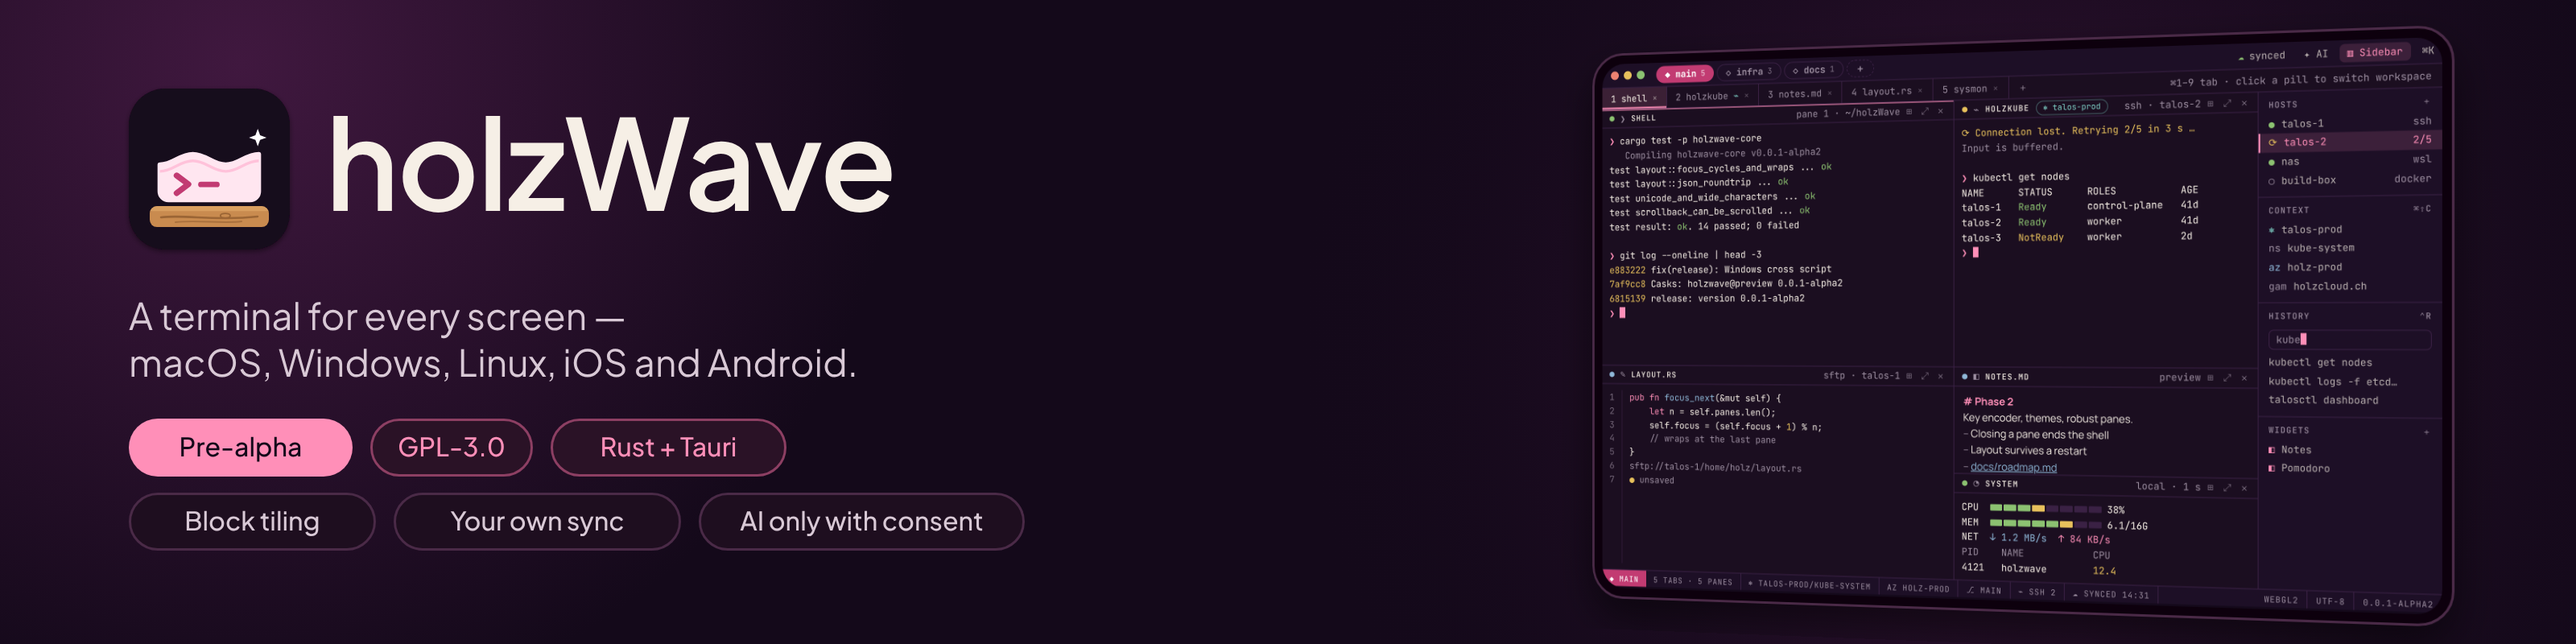
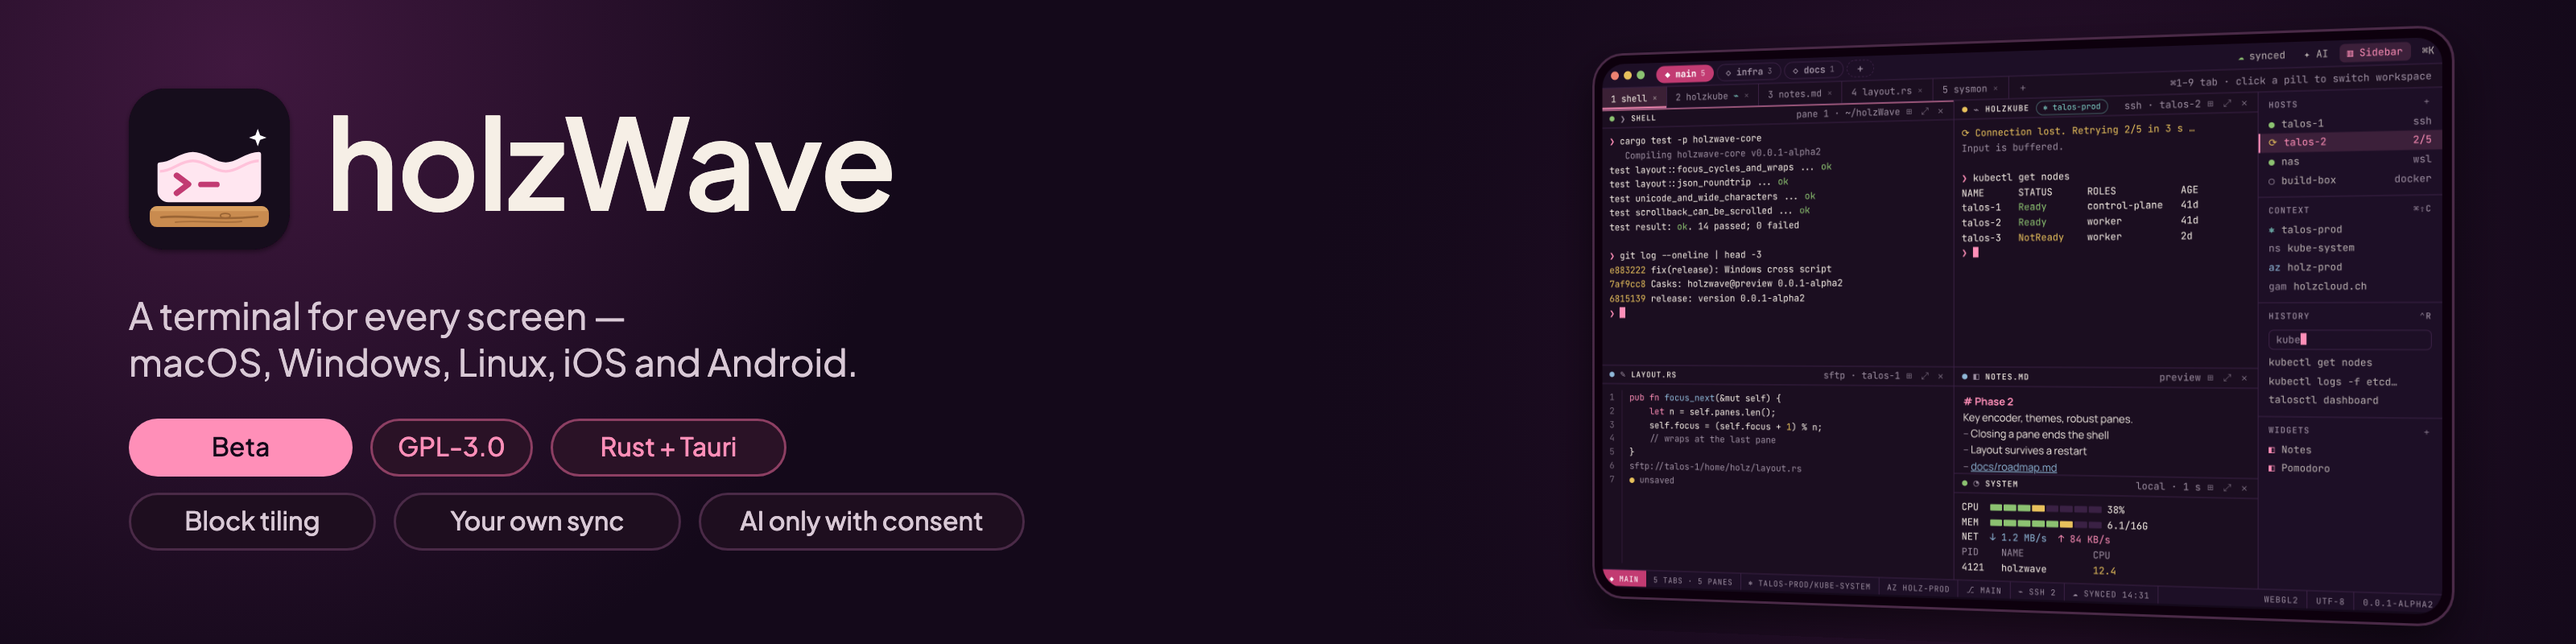
release: version 0.0.1-beta1
README, banner and package metadata for the first beta preview.

Claude-Session: https://claude.ai/code/session_01BohV3xTfqiHyuKuNs6jHvN

diff --git a/app/src-tauri/src/state.rs b/app/src-tauri/src/state.rs
@@ -9406,7 +9406,7 @@ mod protocol {
             },
             "settings_view": to_value(&settings_view),
             "app_info": to_value(&AppInfo {
-                version: "0.0.1-alpha3".into(),
+                version: "0.0.1-beta1".into(),
                 os: "macos".into(),
                 hostname: "holz-mac.local".into(),
             }),

diff --git a/README.md b/README.md
@@ -4,7 +4,7 @@
 
 <br>
 
-[![Status](https://img.shields.io/badge/status-0.0.1--alpha2%20in%20development-FF8FB8?style=for-the-badge)](docs/roadmap.md)
+[![Status](https://img.shields.io/badge/status-0.0.1--beta1%20in%20development-FF8FB8?style=for-the-badge)](docs/roadmap.md)
 [![License](https://img.shields.io/github/license/holzcloud/holzwave?style=for-the-badge&color=4B5563)](LICENSE)
 [![Rust](https://img.shields.io/badge/core-Rust-8D3F63?style=for-the-badge&logo=rust&logoColor=white)](docs/architecture.md)
 
@@ -16,7 +16,7 @@ look: tiled panes, tabs and workspaces, a WebGL2 renderer, SSH that reconnects, 
 Nextcloud, and an AI chat that sees your terminal only after you share that pane. Website: [holzcloud.ch/holzwave](https://holzcloud.ch/holzwave).
 
 > [!WARNING]
-> **Alpha.** holzWave is at `0.0.1-alpha3`: a preview build, unsigned (no Developer ID, no notarisation, no Authenticode).
+> **Beta preview.** holzWave is at `0.0.1-beta1`: a preview build, unsigned (no Developer ID, no notarisation, no Authenticode).
 > The macOS build (Apple Silicon) is the one the author tests; the Windows and Linux packages are cross-built on a Mac and
 > have not run on real machines yet. The window in the images below is the
 > design for the release; the table [What works today](#what-works-today) says what is built.
@@ -36,6 +36,16 @@ brew install --cask holzcloud/holzwave/holzwave@preview
 
 `brew trust` is needed once per cask. Or take the DMG from the [releases](https://github.com/holzcloud/holzWave/releases)
 (right-click, Open, once). The cask removes the quarantine attribute so the unsigned app opens.
+
+## Install (Windows and Linux, untested preview)
+
+Every [release](https://github.com/holzcloud/holzWave/releases) carries the packages, each with a `.sha256` file:
+
+- **Windows (x64):** `holzWave_<version>_x64-setup.exe`, per user, unsigned (SmartScreen: More info, Run anyway).
+- **Linux (x86_64):** `.deb`, `.rpm` and `.AppImage`; they need glibc 2.39 or newer and WebKitGTK 4.1 (Ubuntu 24.04+,
+  Debian 13+, Fedora 40+).
+
+Both are cross-built on a Mac and have never run on real hardware; reports of what breaks are the point of the preview.
 
 > [!IMPORTANT]
 > holzWave is inspired by [Wave Terminal](https://github.com/wavetermdev/waveterm), whose idea of the shell as one block
@@ -123,7 +133,7 @@ connection manager), phase 4 (file browser, previews, editor), the encrypted syn
 tested against test servers. The system monitor (local and over SSH), the history search and the sidebar with widgets are
 built too, and so are the AI chat and the on-device model, whose manual checks wait for real accounts and Macs (Part 7 of
 the [test plan](docs/test-plan.md)); the native integrations and mobile follow.
-Versions go `0.0.1-alpha3`, `0.0.1-beta1`, `0.0.1`.
+Versions go `0.0.1-alpha3`, `0.0.1-beta1` (now), `0.0.1`.
 Full plan: [docs/roadmap.md](docs/roadmap.md).
 
 ## Documentation
